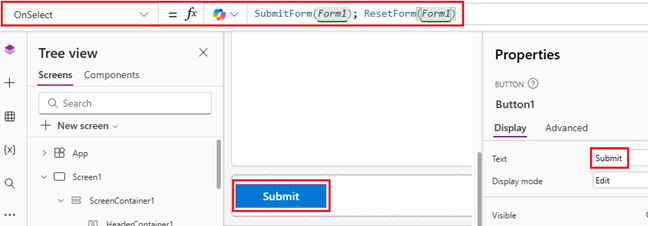
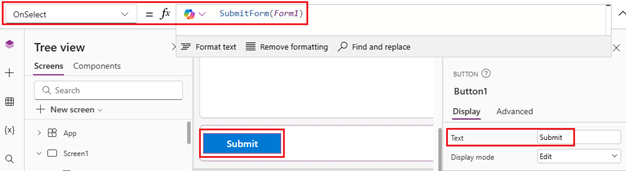
Refresh submit-button screenshot; remove Part 3 checkpoint

diff --git a/canvas-app-dataverse-flow/README.md b/canvas-app-dataverse-flow/README.md
@@ -224,9 +224,6 @@ sends an email.
 > preview at different sizes with the browser dev tools device toolbar (F12) to
 > confirm the layout reflows.
 
-✅ **Checkpoint:** You can add a record with the form and see it in the gallery,
-and the layout reflows when you resize the window.
-
 ---
 
 ## Part 4 — Call the flow from the app (~5 min)
